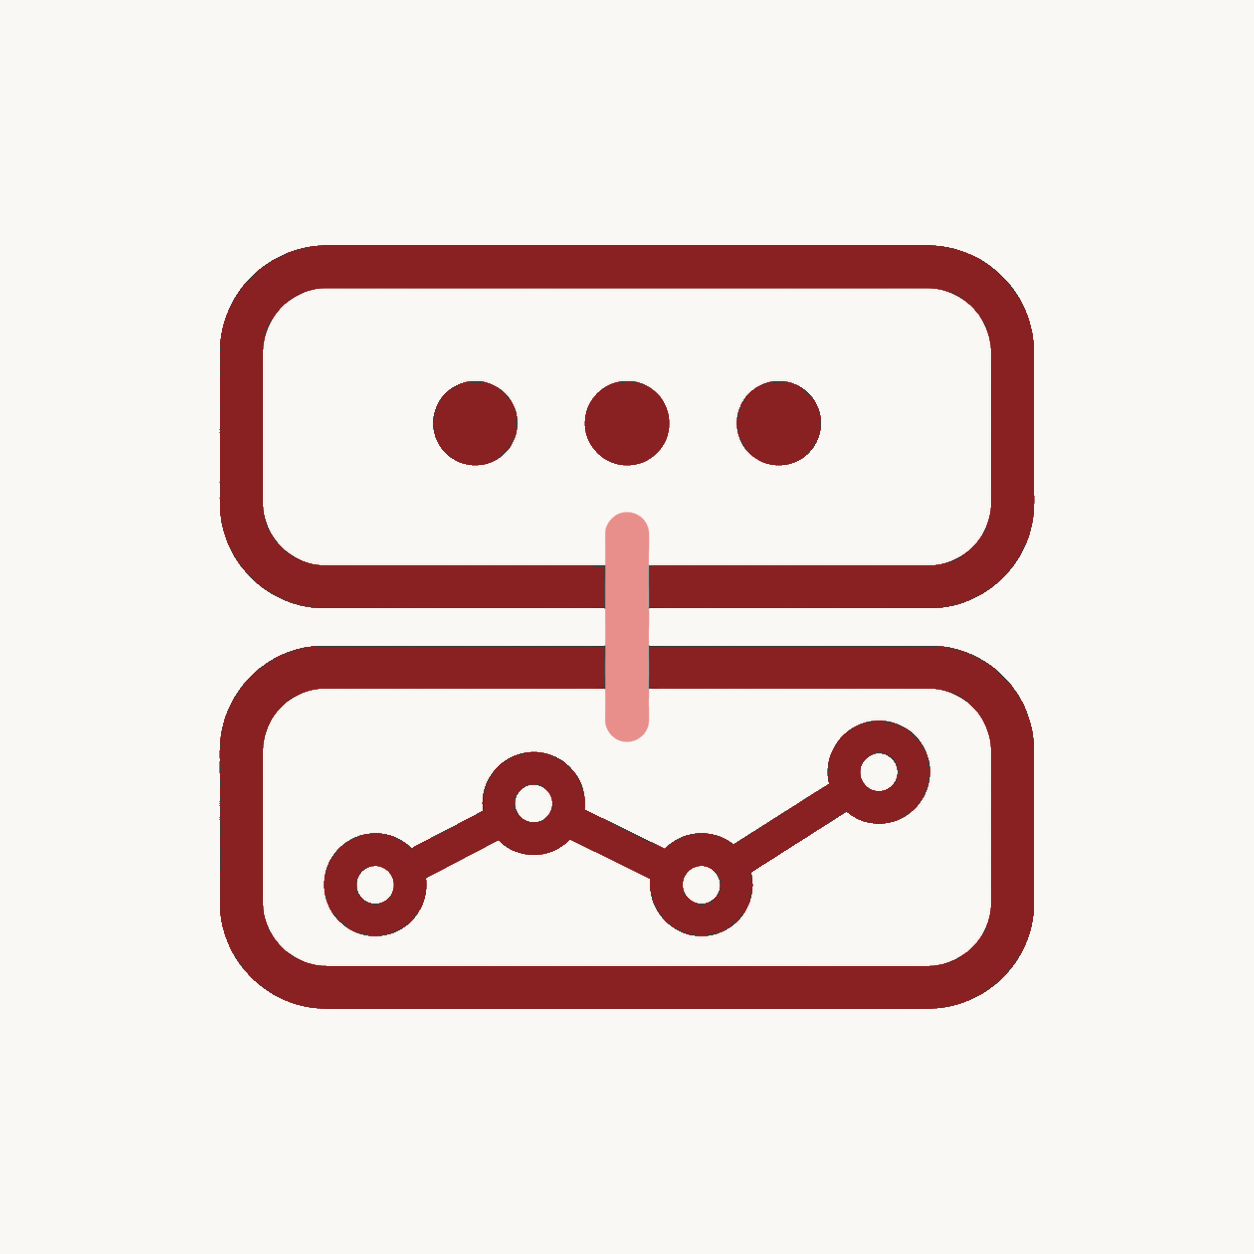
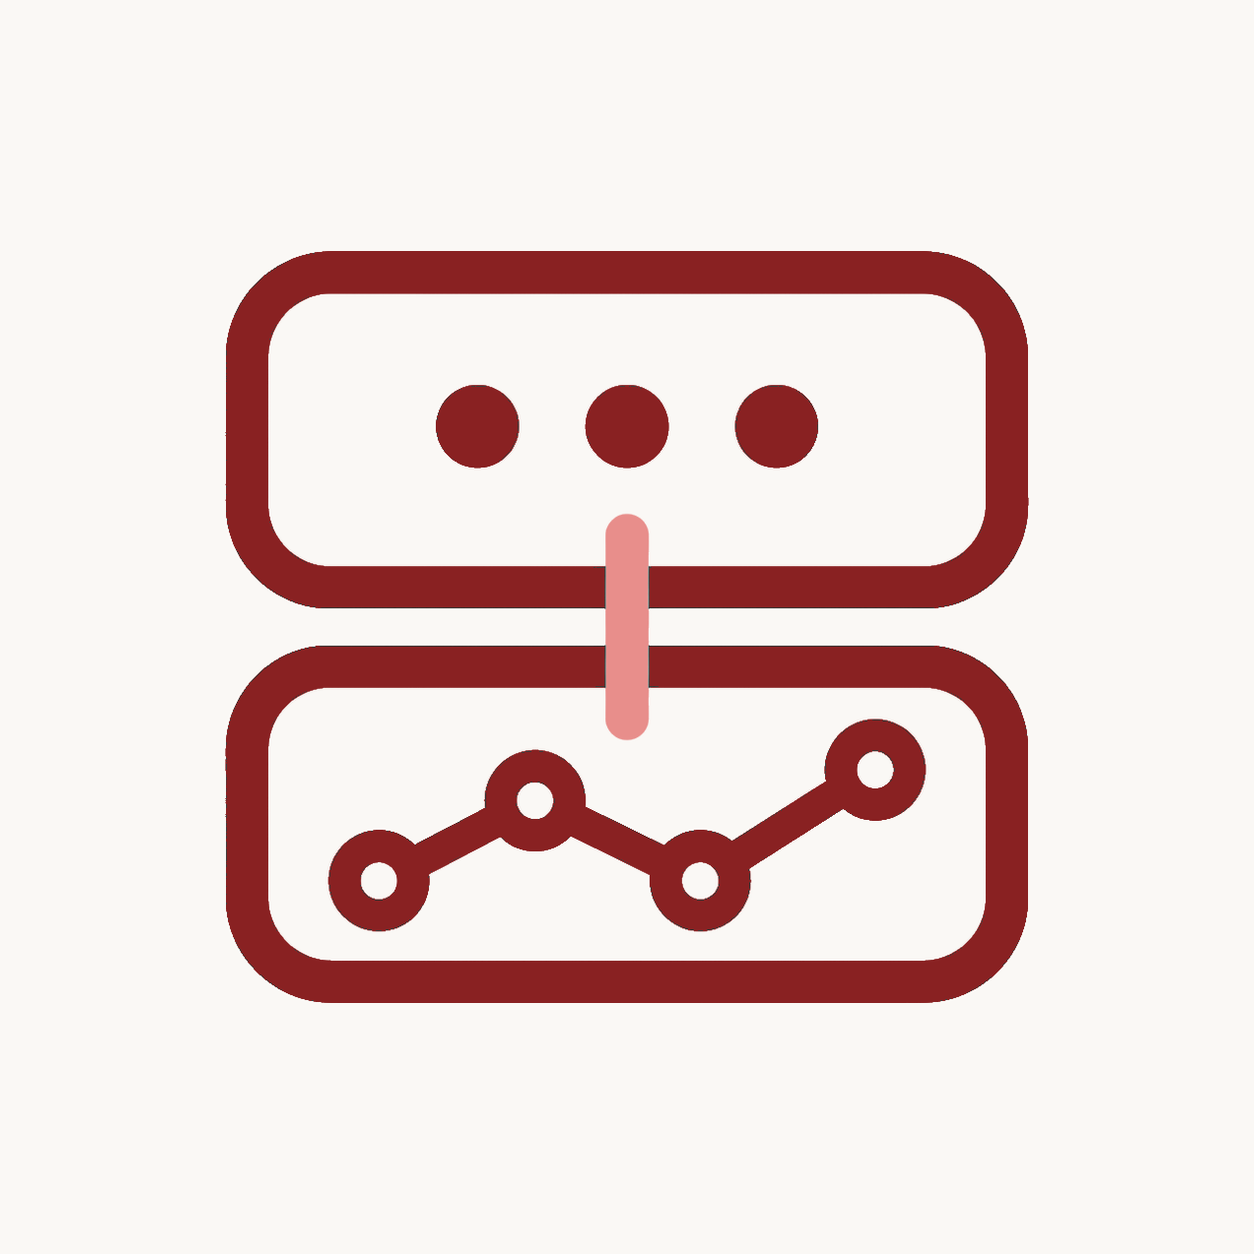
Precheck: every page, cropped illustrations and covers, broken images, alt, h1; refit the older covers (#110)

diff --git a/scripts/precheck-render.py b/scripts/precheck-render.py
@@ -1,15 +1,20 @@
-"""Rendered check for scripts/precheck.mjs: the devices in docs/design/test-devices.md, light and dark.
+"""Rendered check for scripts/precheck.mjs: the devices in docs/design/test-devices.md.
 
-Fails on horizontal overflow, console errors, or an index page with no cards. Run through
-`npm run precheck`, not by hand."""
+Every page in the sitemap is loaded on every device in the light scheme, and the core pages also in the dark scheme.
+Fails on horizontal overflow, console errors, an index page with no cards, a page without exactly one h1, a broken image,
+an image without an alt attribute, and a cropped illustration: an `object-fit: cover` image with one ground color in
+its four corners (an illustration or a figure, not a photo) whose content the box cuts off (the site crops one image to 5:6 on phones and 16:10 on desktop, see docs/design/image-generation.md).
+Run through `npm run precheck`, or by hand with the base URL of a running site (any host, for example https://humem.ai)."""
 import os
 import re
 import sys
+import urllib.parse
+import urllib.request
 from pathlib import Path
 
 from playwright.sync_api import sync_playwright
 
-base = sys.argv[1]
+base = sys.argv[1].rstrip("/")
 chrome = os.environ.get("PLAYWRIGHT_CHROME") or str(
     Path.home() / ".cache/ms-playwright/chromium-1248/chrome-linux64/chrome"
 )
@@ -24,13 +29,66 @@ devices = [
 if len(devices) != 6:
     sys.exit(f"expected 6 devices in docs/design/test-devices.md, found {len(devices)}")
 
-# One page of each kind: home, both indexes, a page of each layout, a news post, and the plain pages.
-pages = [
+# The core pages (one of each kind) are also checked in the dark scheme. Every sitemap page, and the unlisted pages
+# that are reachable by URL, is checked in the light scheme.
+core_pages = [
     "/", "/software", "/research", "/about", "/contact", "/news", "/privacy-policy",
     "/software/arcadedb", "/research/arcadedb", "/research/arcadedb-python",
     "/research/dbbench", "/research/dbbench/tables", "/research/explicit-memory",
 ]
+sitemap = urllib.request.urlopen(base + "/sitemap.xml").read().decode()
+listed = [urllib.parse.urlparse(u).path or "/" for u in re.findall(r"<loc>([^<]+)</loc>", sitemap)]
+pages = list(dict.fromkeys(core_pages + listed))
 cards_expected = {"/", "/software", "/research"}
+
+# Runs in the page. Loads every lazy image, then reports broken images, images without alt, and cropped illustrations.
+IMAGE_CHECK = """
+async () => {
+  document.querySelectorAll('img[loading="lazy"]').forEach((i) => { i.loading = 'eager'; });
+  await Promise.all([...document.images].map((i) => (i.complete ? 0 : new Promise((r) => {
+    i.addEventListener('load', r); i.addEventListener('error', r); setTimeout(r, 5000);
+  }))));
+  const name = (i) => {
+    const u = new URL(i.currentSrc || i.src, location.href);
+    return (u.searchParams.get('url') || u.pathname).split('/').pop();
+  };
+  const out = { broken: [], noAlt: [], cropped: [], h1: document.querySelectorAll('h1').length };
+  for (const i of document.images) {
+    if (!(i.currentSrc || i.src)) continue;
+    if (i.naturalWidth === 0) { out.broken.push(name(i)); continue; }
+    if (!i.hasAttribute('alt')) out.noAlt.push(name(i));
+    const r = i.getBoundingClientRect();
+    if (r.width < 120 || r.height < 80 || getComputedStyle(i).objectFit !== 'cover') continue;
+    // the part of the image the box shows, as fractions of the image
+    const nr = i.naturalWidth / i.naturalHeight, br = r.width / r.height;
+    let x0 = 0, y0 = 0, x1 = 1, y1 = 1;
+    if (br > nr) { y0 = (1 - nr / br) / 2; y1 = 1 - y0; } else { x0 = (1 - br / nr) / 2; x1 = 1 - x0; }
+    // the content of the image: everything that is not the ground color, found on a 160 px copy
+    const w = 160, h = Math.max(1, Math.round(w / nr)), c = document.createElement('canvas');
+    c.width = w; c.height = h;
+    const ctx = c.getContext('2d'); ctx.drawImage(i, 0, 0, w, h);
+    const d = ctx.getImageData(0, 0, w, h).data;
+    // an illustration or figure has one ground color in all four corners; a photo does not, and a crop of a photo is fine
+    const corner = (x, y) => { const p = (y * w + x) * 4; return [d[p], d[p + 1], d[p + 2]]; };
+    const g = corner(0, 0);
+    if ([corner(w - 1, 0), corner(0, h - 1), corner(w - 1, h - 1)].some((q) => Math.abs(q[0] - g[0]) + Math.abs(q[1] - g[1]) + Math.abs(q[2] - g[2]) > 12)) continue;
+    let a = w, b = h, e = -1, f = -1;
+    for (let y = 0; y < h; y++) for (let x = 0; x < w; x++) {
+      const p = (y * w + x) * 4;
+      if (Math.abs(d[p] - g[0]) + Math.abs(d[p + 1] - g[1]) + Math.abs(d[p + 2] - g[2]) > 60) {
+        if (x < a) a = x; if (x > e) e = x; if (y < b) b = y; if (y > f) f = y;
+      }
+    }
+    const tol = 0.004;
+    if (a / w < x0 - tol || (e + 1) / w > x1 + tol || b / h < y0 - tol || (f + 1) / h > y1 + tol) {
+      out.cropped.push(`${name(i)} ${Math.round(r.width)}x${Math.round(r.height)} shows `
+        + `${Math.round((x1 - x0) * 100)}%w ${Math.round((y1 - y0) * 100)}%h, content `
+        + `${Math.round((e + 1 - a) / w * 100)}%w ${Math.round((f + 1 - b) / h * 100)}%h`);
+    }
+  }
+  return out;
+}
+"""
 
 bad = 0
 loads = 0
@@ -40,15 +98,20 @@ with sync_playwright() as p:
         for scheme in ("light", "dark"):
             context = browser.new_context(viewport={"width": width, "height": height}, device_scale_factor=dpr, color_scheme=scheme)
             for path in pages:
+                if scheme == "dark" and path not in core_pages:
+                    continue
                 page = context.new_page()
                 errors = []
-                page.on("console", lambda m, e=errors: e.append(m.text) if m.type == "error" else None)
+                # The YouTube player in an embed asks for browser features (compute-pressure) that the embed's `allow`
+                # list does not grant, and Chromium logs that as an error in our page. It is not ours to fix.
+                page.on("console", lambda m, e=errors: e.append(m.text) if m.type == "error" and not m.text.startswith("Permissions policy violation") else None)
                 page.on("pageerror", lambda x, e=errors: e.append(str(x)))
                 page.goto(base + path, wait_until="networkidle")
                 scroll_width = page.evaluate("document.documentElement.scrollWidth")
                 cards = page.evaluate(
                     "document.querySelectorAll('main a[href^=\"/software/\"], main a[href^=\"/research/\"]').length"
                 )
+                images = page.evaluate(IMAGE_CHECK) if scheme == "light" else {"broken": [], "noAlt": [], "cropped": [], "h1": 1}
                 loads += 1
                 problems = []
                 if scroll_width != width:
@@ -57,9 +120,17 @@ with sync_playwright() as p:
                     problems.append(f"console {errors[:2]}")
                 if path in cards_expected and cards == 0:
                     problems.append("no cards")
+                if images["h1"] != 1:
+                    problems.append(f"{images['h1']} h1 elements")
+                if images["broken"]:
+                    problems.append(f"broken image {images['broken']}")
+                if images["noAlt"]:
+                    problems.append(f"no alt {images['noAlt']}")
+                for c in images["cropped"]:
+                    problems.append(f"cropped {c}")
                 if problems:
                     bad += 1
-                    print(f"  FAIL {width}px {scheme} {path}: {', '.join(problems)}")
+                    print(f"  FAIL {width}px {scheme} {path}: {'; '.join(problems)}")
                 page.close()
             context.close()
     browser.close()

diff --git a/AGENTS.md b/AGENTS.md
@@ -16,9 +16,9 @@ The public website of HumemAI, an open source organization building memory syste
 
 - A project's `summary` is its card text and the first line of its page. Write one or two plain sentences of 20 to 28 words (about 130 to 170 characters) that say what it is and the one thing that matters. No venue, no "accepted at" and no results; the venue is its own field. Cards in a row should read about the same length. `scripts/check-summary-length.mjs` runs in `npm run build` and enforces the word and character range.
 - The order of the cards on `/software`, `/research` and the home page is the order of the keys in `src/lib/projects/sections.ts`, picked by hand. A new project goes where you want its card.
-- Before a push that touches pages, links or layout, run `npm run precheck` (about 2 minutes: lint, build, every old and new URL, six devices in light and dark) and say in the PR which steps ran. The fast checks are already in `npm run build`, so Vercel enforces them.
+- Before a push that touches pages, links or layout, run `npm run precheck` (about 3.5 minutes: lint, build, every old and new URL, every page on six devices, images checked for cropping) and say in the PR which steps ran. The fast checks are already in `npm run build`, so Vercel enforces them.
 - A moved URL always ships with a permanent redirect in `next.config.ts`, straight to the final page (no chains), and with a line in `scripts/legacy-urls.json`, the ledger of published URLs that `npm run precheck` checks. The old `/projects/...` redirects are generated from `sections.ts`; a new project needs no redirect, but a project that changes section does.
-- Every illustration comes from `scripts/gen-image.mjs`. Do not draw, recolor or hand-edit one. Commit the PNG, the spec and the stored prompt together.
+- Every illustration comes from `scripts/gen-image.mjs`. Do not draw, recolor or hand-edit one. Commit the PNG, the spec and the stored prompt together. Refitting an existing image onto a square canvas (crop to the content, scale, recenter) so the site's crops show it whole is not editing it: see "News covers" in `docs/design/image-generation.md`, and `npm run precheck` fails on a cropped one.
 - The OpenRouter key comes only from `OPENROUTER_API_KEY`, or from the file named by `OPENROUTER_KEY_FILE` outside every repository. Never print, commit, paste or send it, and never write where it is kept into a file, commit message, issue or comment.
 - A table on a project page is a `benchmarkTable` or `paperTable` block, never a markdown table in a text block: blocks leave the 736px text column on wide screens and stack on a phone (`docs/design/layout-widths.md`). The build fails on a markdown table (`scripts/check-item-tables.mjs`).
 - Never type a number into a page; generate it, or check it with a script. Math in the items is KaTeX and follows ISO 80000-2 (backslashes doubled inside template literals).

diff --git a/docs/design/image-generation.md b/docs/design/image-generation.md
@@ -46,6 +46,10 @@ The script builds the full prompt from the house template and these fields, so a
 
 A news post can use a diagram from a paper as its cover. The paper figure is rarely the right shape (the ArcadeDB in Python architecture figure is 2.9:1), and the site crops covers to 16:10 on cards and 16:9 on the article, so a figure that is not laid out for it loses its sides. A full paper figure is also too detailed for a cover: its type is unreadable at 550 pixels wide. Simplify it to the nodes that carry the message (the cover of the ArcadeDB in Python post has five boxes and no sub-labels), and use large type (44 pt at 170 dpi came out at 21 px in the desktop hero and 15 px on a phone). These covers are not made by `gen-image.mjs`. Keep the Graphviz source in `docs/design/figures/` (`bgcolor="#faf8f5"`, a margin inside each cluster, no em dashes in labels, an aspect of about 1.7:1), render it with `dot -Tpng`, then crop to the content and center it on a 2000 by 2000 square canvas in the ground color with the diagram at 78% of the width and at most 54% of the height. A square is needed because the site crops one cover three ways: 5:6 portrait on phones (keeps 83% of the width of a square), 16:10 on cards and 16:9 on desktop article heroes (keep 62% and 56% of its height). A 16:9 canvas passes the landscape crops but loses 53% of its width on a phone. Commit the PNG and the `.dot` together, and check the PNG at 360, 768 and 1280 pixels wide. `public/news/2026-10-29/arcadedb-python-cover.png` is the example.
 
+## News covers
+
+Every news cover has to show whole at every width, because the site crops it three ways (5:6 on phones, 16:10 on cards and desktop heroes). Put a cover on a square canvas with the content at most 83% of the width and 60% of the height, centered on the ground color of the image (`#faf8f5` for an illustration, the white of a figure for a figure). A landscape figure or screenshot used as a cover is cut to about half its width on a phone, so it is refit the same way. A paper figure that is also shown on a research page needs its own cover file under `public/news/`, so the figure on the page keeps its shape. `npm run precheck` fails on a cover whose content is cut off. Photos with uneven corners are not checked, because cropping a photo is fine.
+
 ## Keys and secrets
 
 The script reads the OpenRouter key from the `OPENROUTER_API_KEY` environment variable, or from the local file named by `OPENROUTER_KEY_FILE`, which must live outside every repository. It never prints the key, never

diff --git a/README.md b/README.md
@@ -15,7 +15,7 @@ npm install
 npm run dev
 ```
 
-Before pushing a change to pages, links or layout, run `npm run precheck`. It takes about 2 minutes and runs the lint and a production build, then checks every URL in `scripts/legacy-urls.json` (the ledger of published URLs: each must answer 308 to its new page in one hop), every URL in the sitemap, and the six test devices in light and dark for overflow and console errors. It needs Chromium (set `PLAYWRIGHT_CHROME`, or have `~/.cache/ms-playwright/chromium-1248`). For smaller changes, run `npm run lint` and `npm run build` (the build also runs `scripts/check-spacing-tokens.mjs`, which fails when a child of a prose column carries its own vertical margin, `scripts/check-item-tables.mjs`, which fails on a markdown table in a project page, and `scripts/check-summary-length.mjs`, which fails when a project card summary is outside 20 to 28 words or 130 to 170 characters). There is no CI besides the Vercel preview, so run them again after any later edit. Check a layout change rendered, not only built: in light and dark mode, on the six devices in `docs/design/test-devices.md` (360 to 1920 px).
+Before pushing a change to pages, links or layout, run `npm run precheck`. It takes about 3.5 minutes and runs the lint and a production build, then checks every URL in `scripts/legacy-urls.json` (the ledger of published URLs: each must answer 308 to its new page in one hop), every URL in the sitemap, and every sitemap page on the six test devices (the core pages also in the dark scheme) for horizontal overflow, console errors, exactly one h1, broken images, images without an alt attribute, and cropped illustrations (an image or figure with one ground color in its corners whose content the box it is shown in cuts off). It needs Chromium (set `PLAYWRIGHT_CHROME`, or have `~/.cache/ms-playwright/chromium-1248`). For smaller changes, run `npm run lint` and `npm run build` (the build also runs `scripts/check-spacing-tokens.mjs`, which fails when a child of a prose column carries its own vertical margin, `scripts/check-item-tables.mjs`, which fails on a markdown table in a project page, and `scripts/check-summary-length.mjs`, which fails when a project card summary is outside 20 to 28 words or 130 to 170 characters). There is no CI besides the Vercel preview, so run them again after any later edit. Check a layout change rendered, not only built: in light and dark mode, on the six devices in `docs/design/test-devices.md` (360 to 1920 px).
 
 ## DBBench payload
 
